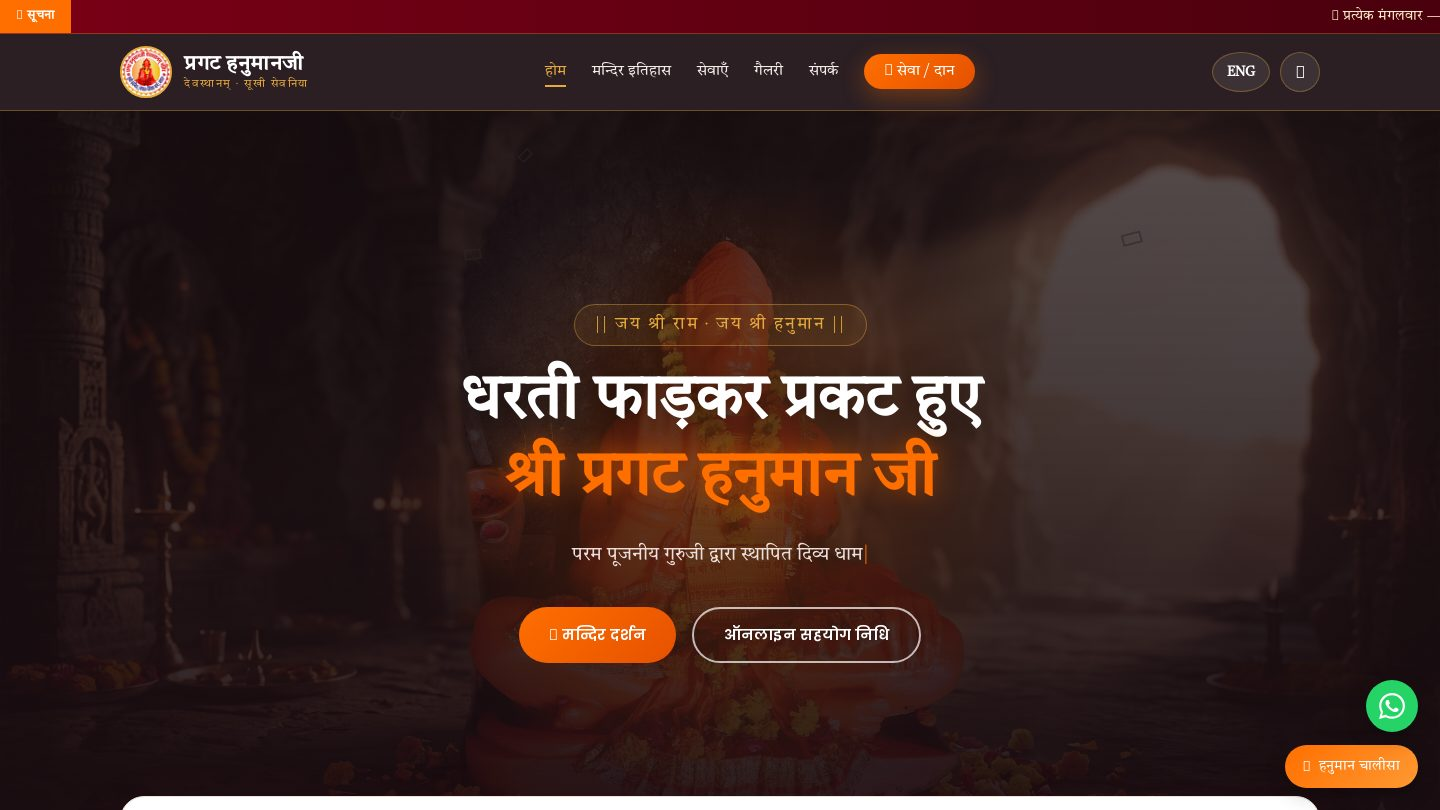
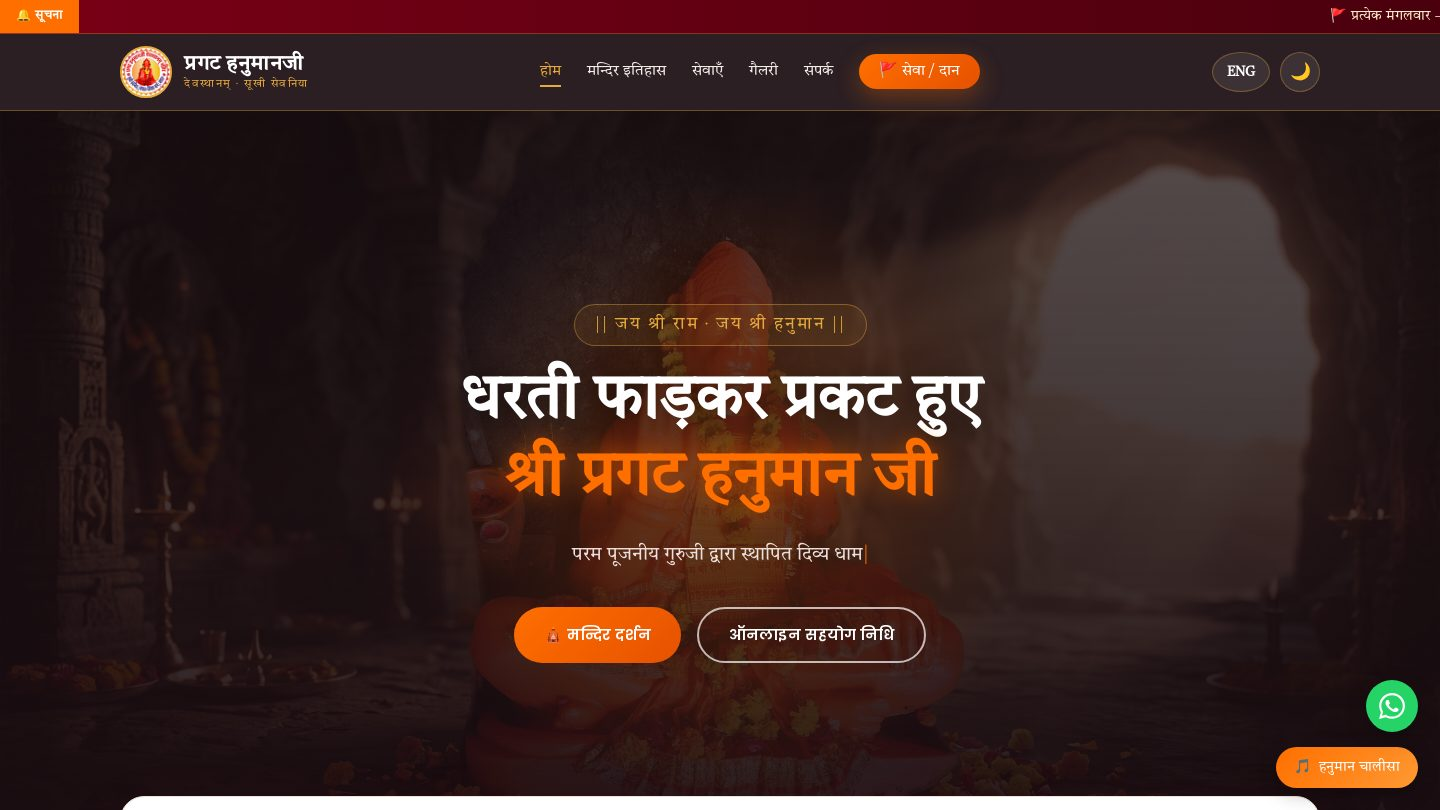
feat(work): add Divine Karigari, Kuber Maheshwari, Align Dental and BarberNow case studies
- Four new case studies written from each repo's README/code (stack, scale,
  features) with live-site screenshots
- Reorder portfolio strongest-first; homepage shows top 3 + 'Also shipped' row
- Update stats to 9 products shipped / 6 industries
- Re-capture older screenshots with emoji/symbol fonts

diff --git a/src/lib/content.ts b/src/lib/content.ts
@@ -4,9 +4,9 @@
  */
 
 export const stats = [
-  { value: "5+", label: "Products shipped" },
-  { value: "4", label: "Live in production" },
-  { value: "5", label: "Industries served" },
+  { value: "9", label: "Products shipped" },
+  { value: "9", label: "Live in production" },
+  { value: "6", label: "Industries served" },
   { value: "100%", label: "Full ownership" },
 ];
 
@@ -55,7 +55,8 @@ export const dashboardFlow = [
 ];
 
 export const clients = [
-  "Saran Tax Solution", "Pragat Hanuman Ji", "Shivis Elegance",
+  "Divine Karigari", "Kuber Maheshwari", "Align Aesthetic Dental Hub",
+  "Shivis Elegance", "Saran Tax Solution", "Pragat Hanuman Ji",
 ];
 
 export type CaseStudy = {
@@ -78,6 +79,141 @@ export type CaseStudy = {
 };
 
 export const caseStudies: CaseStudy[] = [
+  {
+    slug: "divine-karigari",
+    client: "Divine Karigari",
+    title: "A gifting marketplace with a full commerce back office",
+    category: "Ecommerce · Full-stack platform",
+    year: "2026",
+    cover: "from-pink-500 via-rose-500 to-royal",
+    url: "https://divine-karigari.vercel.app",
+    summary:
+      "A handcrafted and personalised gifts store with a role-aware admin portal — catalog with variants and personalisation, Razorpay checkout, Shiprocket shipping and returns, wallet credit and automated email, SMS and abandoned-cart flows.",
+    problem:
+      "An artisan gifting brand needed far more than a storefront: personalised products, gifting occasions, shipping across India, returns, and a team that could run orders and inventory without touching code.",
+    research:
+      "We mapped the full order lifecycle — browse, personalise, pay, ship, track, return, refund — and designed the data model around it first, so every later feature had a home.",
+    approach:
+      "A customer store with personalisation, wishlist, wallet and order tracking, plus a separate admin portal with staff roles (super admin, order manager, inventory manager) for products, coupons, customers, returns, reviews and reports.",
+    build:
+      "Next.js and TypeScript on PostgreSQL with a 26-model Prisma schema and 90 API routes. Razorpay with server-side verification and webhooks, Shiprocket for AWB, tracking and returns, Resend email, MSG91 SMS, and separate signed JWT sessions for customers and staff.",
+    services: ["Website Development", "UI / UX Design", "Maintenance & Growth"],
+    metrics: [
+      { value: "26", label: "data models" },
+      { value: "90", label: "API routes" },
+      { value: "3", label: "staff roles" },
+    ],
+    before: "No online store · personalised orders handled by hand",
+    after: "Full storefront + admin portal · payments · shipping · returns · automated comms",
+  },
+  {
+    slug: "kuber-maheshwari",
+    client: "Kuber Maheshwari",
+    title: "A bhajan singer's site with ticketing and QR gate check-in",
+    category: "Events & Music · Ticketing platform",
+    year: "2026",
+    cover: "from-amber-500 via-orange-600 to-rose-900",
+    url: "https://kuber-maheshwari.vercel.app",
+    summary:
+      "A bilingual (Hindi + English) official site for an Indore bhajan singer, with event ticketing via Razorpay, signed QR e-tickets, a phone-based gate scanner, and Instagram and Facebook feeds rendered natively.",
+    problem:
+      "Events were promoted on social media and tickets were managed by hand — no single place for fans, no reliable way to sell seats, and no way to check people in at the gate.",
+    research:
+      "The audience is devotional, mobile-first and bilingual, and gates are busy and offline-ish — so ticketing had to be dead simple for fans and forgery-proof and instant for volunteers.",
+    approach:
+      "A cinematic public site (arch hero, pinned horizontal services, scroll-lit text) plus Google login, ticket types with seat holds, QR e-tickets by email, and /admin/scan — any phone becomes a gate scanner with green/amber/red results.",
+    build:
+      "Next.js, Tailwind CSS 4, Prisma and PostgreSQL, NextAuth, Razorpay with webhook backup, Resend, Vercel Blob, Framer Motion and Lenis. Signed QR codes, atomic check-ins across multiple gates, Apple and Google Wallet passes, and a weekly cron that refreshes the Instagram token.",
+    services: ["Website Development", "UI / UX Design", "Branding"],
+    metrics: [
+      { value: "QR", label: "signed e-tickets" },
+      { value: "Multi-gate", label: "atomic check-in" },
+      { value: "Hi + En", label: "bilingual" },
+    ],
+    before: "Social-only promotion · manual ticket lists · no gate control",
+    after: "Official site · online ticketing · phone-based QR check-in · live social feeds",
+  },
+  {
+    slug: "align-dental",
+    client: "Align Aesthetic Dental Hub",
+    title: "An orthodontist's site with online tokens and a live clinic queue",
+    category: "Healthcare · Booking system",
+    year: "2026",
+    cover: "from-teal-600 via-cyan-700 to-rose-600",
+    url: "https://aesthetic-dental-clinic-steel.vercel.app",
+    summary:
+      "The website and token system for an orthodontist in Bhopal — patients book a 15-minute token online, reception runs a live queue, and a waiting-room screen shows who's being seen next.",
+    problem:
+      "Patients queued at the clinic with no idea when they'd be seen, and reception juggled phone calls, walk-ins and a paper register.",
+    research:
+      "Tokens had to work for every patient — no app, no login, no paid SMS — and be impossible to double-book even when reception and patients book at the same moment.",
+    approach:
+      "Online tokens in 15-minute slots up to 14 days ahead, a passcode-protected reception and doctor panel with 'now serving', walk-ins and patient search, a TV queue screen, and patient-side saving (token image, calendar, share, SMS draft).",
+    build:
+      "Next.js 16, React 19 and Tailwind CSS 4 on Turso/SQLite. A partial unique index makes double-booking impossible at the database level, backed by a multi-process race test. Google reviews sync, treatment pages and an AI assistant that works without an API key.",
+    services: ["Website Development", "UI / UX Design", "AI Automation"],
+    metrics: [
+      { value: "15-min", label: "token slots" },
+      { value: "0", label: "double bookings" },
+      { value: "Live", label: "clinic queue" },
+    ],
+    before: "Walk-in queues · phone bookings · paper register",
+    after: "Online tokens · live reception queue · waiting-room screen",
+  },
+  {
+    slug: "shivis-elegance",
+    client: "Shivis Elegance",
+    title: "A jewelry store with a full admin backend",
+    category: "Ecommerce · Full-stack",
+    year: "2025",
+    cover: "from-rose-400 via-royal to-amber-500",
+    url: "https://shivis-elegance1.vercel.app",
+    summary:
+      "Two connected systems: a customer store with OTP login and dual payment gateways, plus a separate admin dashboard for inventory, orders, customers, revenue and coupons — with Shiprocket auto-generating AWBs on order.",
+    problem:
+      "A jewelry brand needed more than a storefront — a complete system to manage products, inventory, orders, customers and revenue alongside the shop.",
+    research:
+      "It was treated as an operations problem as much as a storefront one, so the admin side got the same care as the customer experience.",
+    approach:
+      "A customer store with OTP-based login, self-serve order tracking and returns, and a separate admin dashboard for full inventory, order, customer, revenue and coupon management.",
+    build:
+      "Built on Next.js with a Node/Express and PostgreSQL backend, Razorpay and Stripe gateways, and Shiprocket wired in to auto-generate AWBs the moment an order is placed.",
+    services: ["Website Development", "UI / UX Design", "Branding"],
+    metrics: [
+      { value: "Live", label: "order lifecycle" },
+      { value: "2", label: "payment gateways" },
+      { value: "Shiprocket", label: "auto AWB" },
+    ],
+    before: "Storefront only · manual inventory and order ops",
+    after: "End-to-end store + admin dashboard · payments · auto shipping",
+  },
+  {
+    slug: "barber-now",
+    client: "BarberNow",
+    title: "A salon discovery app with a live virtual queue",
+    category: "Beauty & Wellness · Consumer product",
+    year: "2026",
+    cover: "from-amber-400 via-orange-500 to-fuchsia-700",
+    url: "https://barber-now-brown.vercel.app",
+    summary:
+      "Our own consumer product for India: find salons near you, see the live queue, book a service or slot, and walk in exactly when it's your turn. Phase 1 — the customer web app — is live.",
+    problem:
+      "Customers waste time sitting in salon queues, and salons have no simple way to show availability or take bookings online.",
+    research:
+      "Most salon visits in India are walk-ins, so instead of forcing appointments the product leads with a virtual queue — 'people ahead' and an estimated wait — with slot booking as an option.",
+    approach:
+      "Location-based discovery with search, city filter and sort by nearest, top-rated or shortest wait; rich shop profiles; a booking flow for services, barber and queue-or-slot; a live queue tracker after booking; and a phone + OTP login.",
+    build:
+      "Next.js 15, React 19, TypeScript and Tailwind CSS with a custom design system. Phase 1 runs on structured mock data; the roadmap adds a barber app, a Flutter mobile app and a Node + PostgreSQL + Redis backend for the live queue.",
+    services: ["UI / UX Design", "Website Development", "Mobile App Development"],
+    metrics: [
+      { value: "Phase 1", label: "customer app live" },
+      { value: "Live", label: "queue tracker" },
+      { value: "Own", label: "product" },
+    ],
+    before: "Waiting in line with no idea how long it'll take",
+    after: "See the live queue · book online · walk in on time",
+  },
   {
     slug: "saran-tax-solution",
     client: "Saran Tax Solution",
@@ -131,33 +267,6 @@ export const caseStudies: CaseStudy[] = [
     ],
     before: "No digital presence · no channel for events or donations",
     after: "Event calendar · online donations · engaged community",
-  },
-  {
-    slug: "shivis-elegance",
-    client: "Shivis Elegance",
-    title: "A jewelry store with a full admin backend",
-    category: "Ecommerce · Full-stack",
-    year: "2025",
-    cover: "from-rose-400 via-royal to-amber-500",
-    url: "https://shivis-elegance1.vercel.app",
-    summary:
-      "Two connected systems: a customer store with OTP login and dual payment gateways, plus a separate admin dashboard for inventory, orders, customers, revenue and coupons — with Shiprocket auto-generating AWBs on order.",
-    problem:
-      "A jewelry brand needed more than a storefront — a complete system to manage products, inventory, orders, customers and revenue alongside the shop.",
-    research:
-      "It was treated as an operations problem as much as a storefront one, so the admin side got the same care as the customer experience.",
-    approach:
-      "A customer store with OTP-based login, self-serve order tracking and returns, and a separate admin dashboard for full inventory, order, customer, revenue and coupon management.",
-    build:
-      "Built on Next.js with a Node/Express and PostgreSQL backend, Razorpay and Stripe gateways, and Shiprocket wired in to auto-generate AWBs the moment an order is placed.",
-    services: ["Website Development", "UI / UX Design", "Branding"],
-    metrics: [
-      { value: "Live", label: "order lifecycle" },
-      { value: "2", label: "payment gateways" },
-      { value: "Shiprocket", label: "auto AWB" },
-    ],
-    before: "Storefront only · manual inventory and order ops",
-    after: "End-to-end store + admin dashboard · payments · auto shipping",
   },
 ];
 

diff --git a/src/lib/home.ts b/src/lib/home.ts
@@ -9,10 +9,10 @@
 // ---------------------------------------------------------------- trust bar
 
 export const trustBarStats = [
-  { value: 5, suffix: "+", label: "Products Shipped" },
-  { value: 4, suffix: "", label: "Live in Production" },
-  { value: 5, suffix: "", label: "Industries Served" },
-  { value: 24, suffix: "h", label: "Avg. Response Time" },
+  { value: 9, suffix: "", label: "Products shipped" },
+  { value: 6, suffix: "", label: "Industries served" },
+  { value: 2, suffix: "", label: "In-house products" },
+  { value: 24, suffix: "h", label: "Avg. response time" },
 ] as const;
 
 // ---------------------------------------------------------------- services
@@ -175,6 +175,42 @@ export type CaseMeta = {
 
 /** Extra software-project framing, keyed to caseStudies slugs. */
 export const caseMeta: Record<string, CaseMeta> = {
+  "divine-karigari": {
+    slug: "divine-karigari",
+    industry: "Ecommerce",
+    problem: "An artisan gifting brand needed a store and a back office.",
+    solution: "A personalised-gifts store plus a role-based admin portal with payments, shipping and returns.",
+    tech: ["Next.js", "PostgreSQL", "Prisma", "Razorpay", "Shiprocket", "Resend"],
+    result: "Full commerce platform live",
+    image: "/work/divine-karigari.jpg",
+  },
+  "kuber-maheshwari": {
+    slug: "kuber-maheshwari",
+    industry: "Events & Music",
+    problem: "Events were sold and checked in by hand.",
+    solution: "A bilingual artist site with Razorpay ticketing, signed QR e-tickets and a phone gate scanner.",
+    tech: ["Next.js", "Prisma", "NextAuth", "Razorpay", "Framer Motion", "Lenis"],
+    result: "Online ticketing + QR check-in live",
+    image: "/work/kuber-maheshwari.jpg",
+  },
+  "align-dental": {
+    slug: "align-dental",
+    industry: "Healthcare",
+    problem: "Patients queued at the clinic with no idea when they'd be seen.",
+    solution: "Online 15-minute tokens, a live reception queue and a waiting-room screen.",
+    tech: ["Next.js 16", "React 19", "Tailwind 4", "Turso", "Google Places"],
+    result: "Live token booking + clinic queue",
+    image: "/work/align-dental.jpg",
+  },
+  "barber-now": {
+    slug: "barber-now",
+    industry: "Beauty & Wellness",
+    problem: "Salon customers waste time sitting in queues.",
+    solution: "Salon discovery with a live virtual queue, slot booking and OTP login.",
+    tech: ["Next.js 15", "React 19", "TypeScript", "Tailwind"],
+    result: "Phase 1 customer app live",
+    image: "/work/barber-now.jpg",
+  },
   "saran-tax-solution": {
     slug: "saran-tax-solution",
     industry: "Finance",

diff --git a/src/components/home/WorkShowcase.tsx b/src/components/home/WorkShowcase.tsx
@@ -10,6 +10,7 @@ import { cn } from "@/lib/utils";
 /** Selected work — large screenshot cards, outcome first. Light section. */
 export function WorkShowcase() {
   const [lead, ...rest] = caseStudies.slice(0, 3);
+  const more = caseStudies.slice(3);
 
   return (
     <section className="relative bg-base py-24 md:py-32">
@@ -36,6 +37,29 @@ export function WorkShowcase() {
             </Reveal>
           ))}
         </div>
+
+        {more.length > 0 && (
+          <Reveal delay={0.1}>
+            <div className="mt-5 flex flex-col gap-4 rounded-3xl border border-line px-6 py-5 md:flex-row md:items-center">
+              <span className="shrink-0 font-mono text-[0.68rem] uppercase tracking-[0.14em] text-ink-muted">
+                Also shipped
+              </span>
+              <div className="flex flex-1 flex-wrap gap-2">
+                {more.map((s) => (
+                  <Link
+                    key={s.slug}
+                    href={`/work/${s.slug}`}
+                    className="group inline-flex items-center gap-2 rounded-full border border-line bg-subtle py-1.5 pl-3.5 pr-3 text-sm text-ink transition-colors hover:border-ink/20 hover:bg-surface"
+                  >
+                    {s.client}
+                    <span className="font-mono text-[0.65rem] text-ink-faint">{caseMeta[s.slug]?.industry}</span>
+                    <ArrowUpRight className="h-3.5 w-3.5 text-ink-faint transition-colors group-hover:text-royal" />
+                  </Link>
+                ))}
+              </div>
+            </div>
+          </Reveal>
+        )}
       </div>
     </section>
   );

diff --git a/src/app/work/page.tsx b/src/app/work/page.tsx
@@ -9,7 +9,7 @@ import { CTA } from "@/components/sections/CTA";
 export const metadata: Metadata = {
   title: "Work — Case studies & outcomes",
   description:
-    "Selected case studies from CodeSkate — live client products across finance, community and ecommerce, with the stack and outcomes behind each.",
+    "Case studies from CodeSkate — live products across ecommerce, events, healthcare, beauty, finance and community, with the stack and outcomes behind each.",
   alternates: { canonical: "/work" },
 };
 
@@ -19,7 +19,7 @@ export default function WorkPage() {
   const stacks = new Set(caseStudies.flatMap((c) => caseMeta[c.slug]?.tech ?? []));
 
   const summary = [
-    { value: caseStudies.length, label: "Live client products" },
+    { value: caseStudies.length, label: "Live projects" },
     { value: industries.size, label: "Industries" },
     { value: stacks.size, label: "Technologies shipped" },
     { value: "100%", label: "Code ownership" },
